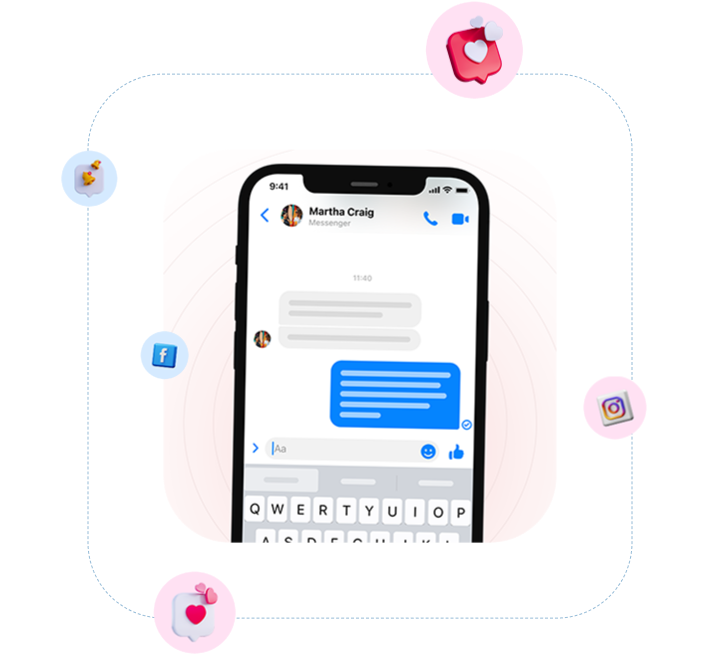
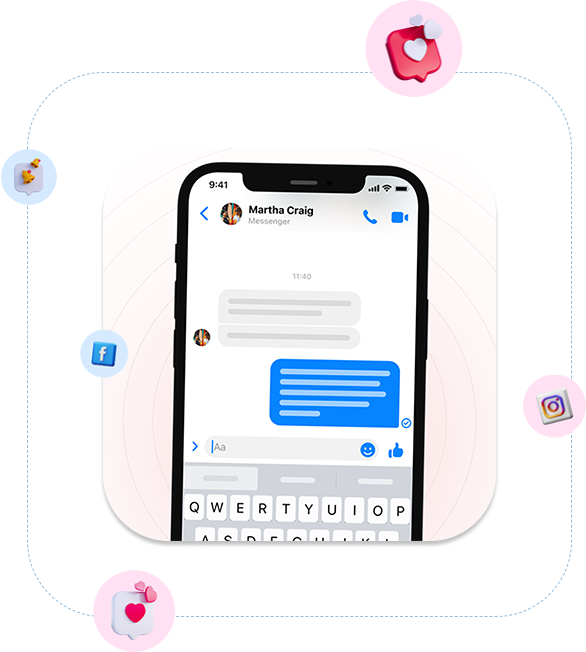
added followers section; added isMobile context and rootTemplate to the app

diff --git a/sections/counters-section/inbox-management-section/inbox-management-section.tsx b/sections/counters-section/inbox-management-section/inbox-management-section.tsx
@@ -1,31 +1,28 @@
 "use client";
+import { useContext } from "react";
+import { MobileContext } from "@/context/mobile-context";
 import { GridProps } from "@chakra-ui/react";
 import { InboxManagementSectionElements as el } from "./inbox-management-section.elements";
 import { SectionContent } from "@/components/section-content/section-content";
 import { ISectionWithButton } from "@/domain/sections.t";
-import { useIsMobile } from "@/hooks/use-is-mobile";
+import { SectionContentButton } from "@/components/section-content-button/section-content-button";
 
-interface IInboxManagementSectionProps extends GridProps, ISectionWithButton {}
+interface IInboxManagementSectionProps extends GridProps {
+  sectionData: ISectionWithButton;
+}
 
 export const InboxManagementSection = ({
-  sectionTitle,
-  sectionSubtitle,
-  sectionBody,
-  sectionButtonText,
+  sectionData,
+  ...rest
 }: IInboxManagementSectionProps) => {
-  const isMobile = useIsMobile();
+  const { isMobile } = useContext(MobileContext);
   return (
-    <el.Container>
+    <el.Container {...rest}>
       <el.StyledImage
         src="/assets/images/phone.png"
         alt="A cellphone with an instant messenger app on the screen and icons floating around"
       />
-      <SectionContent
-        sectionTitle={sectionTitle}
-        sectionSubtitle={sectionSubtitle}
-        sectionButtonText={sectionButtonText}
-        sectionBody={sectionBody}
-      />
+      <SectionContent {...sectionData} />
       {!isMobile && (
         <>
           <el.RotatingImage imageUrl="/assets/images/shapes/shape-3.svg" />
@@ -34,6 +31,11 @@ export const InboxManagementSection = ({
             animationVariant="float"
           />
         </>
+      )}
+      {isMobile && (
+        <SectionContentButton>
+          {sectionData.sectionButtonText}
+        </SectionContentButton>
       )}
     </el.Container>
   );

diff --git a/sections/counters-section/inbox-management-section/inbox-management-section.elements.ts b/sections/counters-section/inbox-management-section/inbox-management-section.elements.ts
@@ -5,13 +5,14 @@ import { AnimatedShape } from "@/components/animated-shape/animated-shape";
 const Container = styled(SectionGrid, {
   baseStyle: {
     pt: { base: "58px", sm: "112px", lg: "158px" },
-    pb: { base: "90px", sm: "60px", lg: "132px" },
     pl: { base: "16px", sm: "24x", lg: "120px" },
     pr: { base: "16px", sm: "24px", lg: "15.6vw" },
-    gridTemplateColumns: { base: "1fr", lg: "1.1fr 1fr" },
+    pb: { base: "90px", sm: "112px", lg: "166px" },
+    gridTemplateColumns: { base: "1fr", lg: "1.1fr 0.8fr" },
     gridTemplateRows: { base: "auto auto", lg: "auto" },
+    gridColumnGap: "150px",
     position: "relative",
-    justifyItems: "baseline",
+    justifyItems: "start",
     overflow: "hidden",
     alignItems: "center",
   },
@@ -20,30 +21,23 @@ const Container = styled(SectionGrid, {
 const StyledImage = styled(Image, {
   baseStyle: {
     alignSelf: "center",
-    justifySelf: "center",
+    justifySelf: { base: "center", lg: "start" },
   },
 });
 
-const StyledAnimatedShape = styled(AnimatedShape, {
-  baseStyle: {
-    position: "absolute",
-    zIndex: -1,
-  },
-});
-
-const FloatingImage = styled(StyledAnimatedShape, {
+const FloatingImage = styled(AnimatedShape, {
   baseStyle: {
     right: "11.9vw",
-    bottom: "132px",
+    bottom: "166px",
   },
 });
 
-const RotatingImage = styled(StyledAnimatedShape, {
+const RotatingImage = styled(AnimatedShape, {
   baseStyle: {
     position: "absolute",
     zIndex: -1,
-    right: "9.4vw",
-    top: "158px"
+    right: "16.8vw",
+    top: "108px",
   },
 });
 
@@ -51,5 +45,5 @@ export const InboxManagementSectionElements = {
   Container,
   StyledImage,
   FloatingImage,
-  RotatingImage
+  RotatingImage,
 };

diff --git a/components/section-content/section-content.tsx b/components/section-content/section-content.tsx
@@ -1,11 +1,14 @@
+import { useContext } from "react";
+import { MobileContext } from "@/context/mobile-context";
 import { FlexProps } from "@chakra-ui/react";
 import { SectionContentElements as el } from "./section-content.elements";
 import { ISectionWithButton } from "@/domain/sections.t";
 import { TextParser } from "@/helpers/text-parser";
-import { useIsMobile } from "@/hooks/use-is-mobile";
 import { SectionContentButton } from "../section-content-button/section-content-button";
 
-interface ISectionContentProps extends ISectionWithButton, FlexProps {}
+interface ISectionContentProps extends ISectionWithButton, FlexProps {
+  showButtonOnMobile?: boolean;
+}
 
 export const SectionContent = ({
   sectionTitle,
@@ -13,17 +16,19 @@ export const SectionContent = ({
   sectionSubtitle,
   sectionButtonText,
   onClickSectionButton,
+  showButtonOnMobile = false,
+  children,
   ...rest
 }: ISectionContentProps) => {
   const parsedText = TextParser.renderFormattedText(sectionBody);
-  const isMobile = useIsMobile();
+  const { isMobile } = useContext(MobileContext);
 
   return (
     <el.Container {...rest}>
       <el.Subtitle>{sectionSubtitle}</el.Subtitle>
       <el.Title as="h2">{sectionTitle}</el.Title>
       <el.Body>{...parsedText}</el.Body>
-      {!isMobile && (
+      {(!isMobile || showButtonOnMobile) && (
         <SectionContentButton size="large" onClick={onClickSectionButton}>
           {sectionButtonText}
         </SectionContentButton>

diff --git a/sections/followers-section/followers-section.elements.ts b/sections/followers-section/followers-section.elements.ts
@@ -1,0 +1,51 @@
+import { Image, styled } from "@chakra-ui/react";
+import { SectionGrid } from "@/components/section-grid/section-grid";
+import { SectionContent } from "@/components/section-content/section-content";
+import { AnimatedShape } from "@/components/animated-shape/animated-shape";
+
+const Container = styled(SectionGrid, {
+  baseStyle: {
+    px: { base: "16px", sm: "84px", lg: "120px" },
+    pb: { base: "80px", sm: "170px", lg: "112px" },
+    position: "relative",
+    gridTemplateColumns: { base: "1fr", lg: "1.02fr 1fr" },
+    gridTemplateRows: { base: "auto auto", lg: "auto" },
+  },
+});
+
+const StyledContent = styled(SectionContent, {
+  baseStyle: {
+    order: { base: "1", lg: "-1" },
+  },
+});
+
+const StyledImage = styled(Image, {
+  baseStyle: {
+    alignSelf: "center",
+    justifySelf: "center",
+    order: { base: "-1", lg: "1" },
+    zIndex: -2,
+  },
+});
+
+const RotatingImage = styled(AnimatedShape, {
+  baseStyle: {
+    left: "55%",
+    top: "-62px",
+  },
+});
+
+const FloatingImage = styled(AnimatedShape, {
+  baseStyle: {
+    left: "32vw",
+    bottom: "112px",
+  },
+});
+
+export const FollowersSectionElements = {
+  Container,
+  StyledContent,
+  StyledImage,
+  RotatingImage,
+  FloatingImage,
+};

diff --git a/sections/swiper-section/swiper-section.elements.ts b/sections/swiper-section/swiper-section.elements.ts
@@ -2,13 +2,14 @@ import { styled, Text, Flex } from "@chakra-ui/react";
 import { SectionGrid } from "@/components/section-grid/section-grid";
 import { AnimatedShape } from "@/components/animated-shape/animated-shape";
 import { Button } from "@/components/button/button";
+import { SectionContent } from "@/components/section-content/section-content";
 
 const Container = styled(SectionGrid, {
   baseStyle: {
     pt: { base: "80px", sm: "112px", lg: "112px" },
     pl: { base: "16px", sm: "24px", lg: "120px" },
     pr: { base: "16px", sm: "24px", lg: "0" },
-    gridTemplateColumns: { base: "1fr", lg: "0.33fr 0.68fr" },
+    gridTemplateColumns: { base: "1fr", lg: "0.54fr 1fr" },
     gridTemplateRows: { base: "auto auto", lg: "auto" },
     position: "relative",
     justifyItems: "baseline",
@@ -82,6 +83,14 @@ const ViewMoreButton = styled(Button, {
   },
 });
 
+const StyledContent = styled(SectionContent, {
+  baseStyle: {
+    mb: { base: "36px", lg: "0" },
+    alignSelf: "center"
+
+  },
+});
+
 export const SwiperSectionElements = {
   Container,
   ColumnLeft,
@@ -91,4 +100,5 @@ export const SwiperSectionElements = {
   RotatingImageOne,
   RotatingImageTwo,
   ViewMoreButton,
+  StyledContent,
 };

diff --git a/sections/followers-section/followers-section.tsx b/sections/followers-section/followers-section.tsx
@@ -1,0 +1,34 @@
+"use client";
+import { useContext } from "react";
+import { MobileContext } from "@/context/mobile-context";
+import { GridProps } from "@chakra-ui/react";
+import { FollowersSectionElements as el } from "./followers-section.elements";
+import { ISectionWithButton } from "@/domain/sections.t";
+import { SectionContentButton } from "@/components/section-content-button/section-content-button";
+
+interface IFollowersSectionProps extends GridProps {
+  sectionData: ISectionWithButton;
+}
+
+export const FollowersSection = ({
+  sectionData,
+  ...rest
+}: IFollowersSectionProps) => {
+  const { isMobile } = useContext(MobileContext);
+  return (
+    <el.Container {...rest}>
+      <el.StyledContent {...sectionData} showButtonOnMobile />
+      <el.StyledImage src="assets/images/success.jpg" />
+
+      {!isMobile && (
+        <>
+          <el.FloatingImage
+            imageUrl="/assets/images/shapes/shape-4.svg"
+            animationVariant="float"
+          />
+          <el.RotatingImage imageUrl="/assets/images/shapes/shape-5.svg" />
+        </>
+      )}
+    </el.Container>
+  );
+};

diff --git a/sections/swiper-section/swiper-section.tsx b/sections/swiper-section/swiper-section.tsx
@@ -1,9 +1,9 @@
 "use client";
 
+import { useContext } from "react";
+import { MobileContext } from "@/context/mobile-context";
 import { GridProps } from "@chakra-ui/react";
 import { SwiperSectionElements as el } from "./swiper-section.elements";
-import { TextParser } from "@/helpers/text-parser";
-import { useIsMobile } from "@/hooks/use-is-mobile";
 import { Swiper } from "@/components/swiper/swiper";
 import { ISwiperSection } from "@/domain/sections.t";
 import { SectionContent } from "@/components/section-content/section-content";
@@ -14,7 +14,7 @@ export const SwiperSection = ({
   imageUrls,
   sectionData,
 }: ISwiperSectionProps) => {
-  const isMobile = useIsMobile();
+  const { isMobile } = useContext(MobileContext);
 
   const swiperBreakpointValues = {
     0: {
@@ -36,7 +36,7 @@ export const SwiperSection = ({
       {!isMobile && (
         <el.RotatingImageTwo imageUrl="/assets/images/shapes/shape-2.svg" />
       )}
-      <SectionContent {...sectionData} />
+      <el.StyledContent {...sectionData} />
       <Swiper
         slidesPerView={3}
         breakpoints={swiperBreakpointValues}

diff --git a/app/page.tsx b/app/page.tsx
@@ -5,6 +5,8 @@ import { SwiperSection } from "@/sections/swiper-section/swiper-section";
 import { SwiperSectionData } from "@/data/swiper-section";
 import { InboxManagementSection } from "@/sections/counters-section/inbox-management-section/inbox-management-section";
 import { InboxManagementSectionData } from "@/data/inbox-management-section";
+import { FollowersSection } from "@/sections/followers-section/followers-section";
+import { FollowersSectionData } from "@/data/followers-section";
 
 export default function Home() {
   return (
@@ -12,7 +14,8 @@ export default function Home() {
       <HeroSection />
       <CountersSection {...CountersSectionData} />
       <SwiperSection {...SwiperSectionData} />
-      <InboxManagementSection {...InboxManagementSectionData}/>
+      <InboxManagementSection sectionData={InboxManagementSectionData} />
+      <FollowersSection sectionData={FollowersSectionData} />
     </main>
   );
 }

diff --git a/data/followers-section.ts b/data/followers-section.ts
@@ -1,0 +1,9 @@
+import { ISectionWithButton } from "@/domain/sections.t";
+
+export const FollowersSectionData: ISectionWithButton = {
+  sectionTitle: "Troubles Growing Your Audience?",
+  sectionSubtitle: 'Thinking "Outside The Box"',
+  sectionButtonText: "Start Driving Sales",
+  sectionBody:
+    "Attract new followers that are relevant to your objectives by reaching outside your social media bubble, and you'll start to see a quicker return on your investment.\n\nAlong with captivating visuals, our teams perform countless hours of research and planning to deliver optimized marketing campaigns that target your ideal audience who are most likely to convert into leads.\n\nBy thoroughly planning your paid Social Media Advertising campaign, we are able to ensure that every penny of your marketing budget is well spent.",
+};

diff --git a/sections/hero-section/hero-section.tsx b/sections/hero-section/hero-section.tsx
@@ -1,12 +1,12 @@
 "use client";
+import { useContext } from "react";
+import { MobileContext } from "@/context/mobile-context";
 import { HeroSectionElements as el } from "./hero-section.elements";
-import { FlexProps, useBreakpointValue } from "@chakra-ui/react";
+import { FlexProps } from "@chakra-ui/react";
 import { carouselLogoUrls } from "@/data/carousel-logo-urls";
-import { useIsMobile } from "@/hooks/use-is-mobile";
 
 export const HeroSection = ({ ...rest }: FlexProps) => {
-  const isMobile = useIsMobile();
-
+  const { isMobile } = useContext(MobileContext);
   return (
     <el.Container as="section" {...rest}>
       <el.InnerContainer>

diff --git a/components/root-template/root-template.tsx b/components/root-template/root-template.tsx
@@ -1,0 +1,21 @@
+"use client";
+import { useIsMobile } from "@/hooks/use-is-mobile";
+import { MobileContextProvider } from "@/context/mobile-context";
+import { MegaMenu } from "../mega-menu/mega-menu";
+import { MegaMenuData } from "@/data/mega-menu";
+import { ReactNode } from "react";
+
+interface IRootTemplateProps {
+  children: ReactNode;
+}
+
+export const RootTemplate = ({ children }: IRootTemplateProps) => {
+  const isMobile = useIsMobile();
+
+  return (
+    <MobileContextProvider value={{ isMobile }}>
+      <MegaMenu data={MegaMenuData} />
+      {children}
+    </MobileContextProvider>
+  );
+};

diff --git a/app/template.tsx b/app/template.tsx
@@ -1,16 +1,13 @@
 "use client";
 
 import ThemeProvider from "@/theme/theme-provider";
-import { MegaMenu } from "@/components/mega-menu/mega-menu";
 import { ReactNode } from "react";
-import { MegaMenuData } from "@/data/mega-menu";
+import { RootTemplate } from "@/components/root-template/root-template";
 
 const RouteLayout = ({ children }: { children: ReactNode }) => {
   return (
     <ThemeProvider>
-      <MegaMenu data={MegaMenuData} />
-
-      {children}
+      <RootTemplate>{children}</RootTemplate>
     </ThemeProvider>
   );
 };
